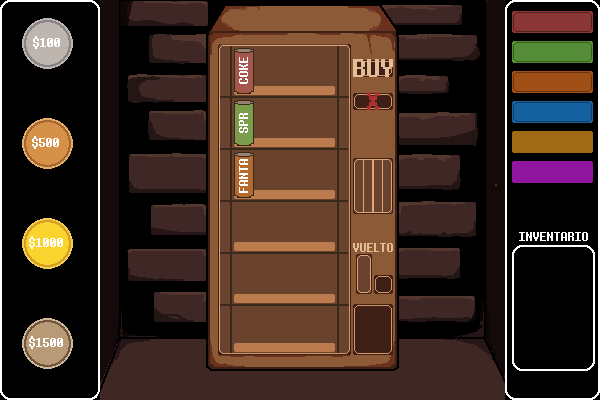
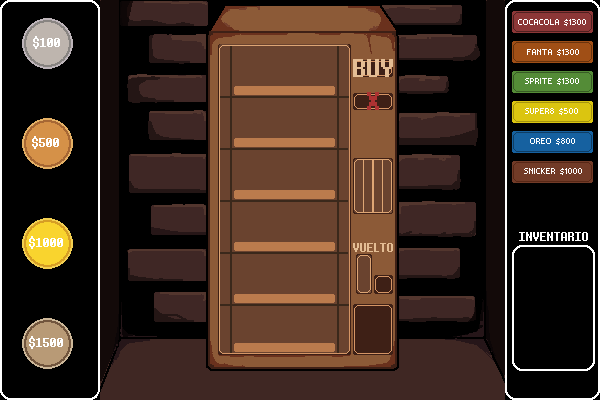
nueva logica vuelto y texturas botones de productos

Changed region(s): [[0.84, 0.09, 0.99, 0.48], [0.39, 0.12, 0.45, 0.51], [0.87, 0.03, 0.96, 0.06]]

diff --git a/src/main/java/expendedor/gui/PanelVuelto.java b/src/main/java/expendedor/gui/PanelVuelto.java
@@ -2,12 +2,9 @@ package expendedor.gui;
 
 import expendedor.logica.Comprador;
 import expendedor.logica.Expendedor;
-import expendedor.logica.monedas.Moneda;
 
 import javax.swing.*;
 import java.awt.*;
-import java.awt.event.MouseAdapter;
-import java.awt.event.MouseEvent;
 
 public class PanelVuelto extends JPanel {
     private Expendedor expendedor;
@@ -17,36 +14,15 @@ public class PanelVuelto extends JPanel {
         this.setOpaque(false);
         this.setLayout(new GridLayout(1,2));
 
-        //Añadimos en un lado el depósito de vuelto
+        // Añadimos la lista de espera visual
         this.add(new PanelDepositoMoneda(expendedor.getDepVuelto()));
-        this.add(new PanelRetiroVuelto(expendedor));
 
-        this.addMouseListener(new MouseAdapter() {
-            @Override
-            public void mousePressed(MouseEvent e) {
-                Moneda monedaVuelto = expendedor.getDepVuelto().get();
-
-                if (monedaVuelto != null) {
-                    System.out.println("Retiraste una moneda de: $" + monedaVuelto.getValor());
-
-                    // Devolvemos el valor correspondiente al monedero del comprador
-                    comprador.recibirMoneda(monedaVuelto);
-
-                    // Redibujamos la ventana para reflejar el cambio en ambos paneles inmediatamente
-                    if (SwingUtilities.getWindowAncestor(PanelVuelto.this) != null) {
-                        SwingUtilities.getWindowAncestor(PanelVuelto.this).repaint();
-                    }
-                } else {
-                    System.out.println("No queda vuelto por retirar.");
-                }
-            }
-        });
+        // Añadimos el cuadrito de retiro (Le pasamos el comprador para que pueda darle el dinero)
+        this.add(new PanelRetiroVuelto(expendedor, comprador));
     }
 
-
-
-  @Override
-  public void paintComponent(Graphics g) {
-    super.paintComponent(g);
-  }
+    @Override
+    public void paintComponent(Graphics g) {
+        super.paintComponent(g);
+    }
 }

diff --git a/src/main/java/expendedor/gui/PanelRetiroVuelto.java b/src/main/java/expendedor/gui/PanelRetiroVuelto.java
@@ -1,10 +1,13 @@
 package expendedor.gui;
 
+import expendedor.logica.Comprador;
 import expendedor.logica.Expendedor;
 import expendedor.logica.monedas.Moneda;
 
 import javax.swing.*;
 import java.awt.*;
+import java.awt.event.MouseAdapter;
+import java.awt.event.MouseEvent;
 
 /**
  * Sub-Panel de PanelVuelto
@@ -17,16 +20,33 @@ public class PanelRetiroVuelto extends JPanel {
      * Se guarda la referencia del expendedor
      * y se definen transparencia y fondo.
      * @param expendedor Referencia del expendedor.
+     * @param comprador Referencia del comprador.
      */
-    public PanelRetiroVuelto(Expendedor expendedor) {
+    public PanelRetiroVuelto(Expendedor expendedor, Comprador comprador) {
         this.expendedor = expendedor;
         this.setOpaque(false);
+
+        // El clic pertenece a este cuadrito específico
+        this.addMouseListener(new MouseAdapter() {
+            @Override
+            public void mousePressed(MouseEvent e) {
+                // Usamos el método oficial de la lógica para respetar la cascada
+                Moneda monedaVuelto = expendedor.retirarMoneda();
+
+                if (monedaVuelto != null) {
+                    System.out.println("Retiraste una moneda de: $" + monedaVuelto.getValor());
+                    comprador.recibirMoneda(monedaVuelto);
+
+                    if (SwingUtilities.getWindowAncestor(PanelRetiroVuelto.this) != null) {
+                        SwingUtilities.getWindowAncestor(PanelRetiroVuelto.this).repaint();
+                    }
+                } else {
+                    System.out.println("No queda vuelto por retirar.");
+                }
+            }
+        });
     }
 
-    /**
-     * Actualiza la moneda
-     * @param g the <code>Graphics</code> object to protect
-     */
     @Override
     public void paintComponent(Graphics g) {
         super.paintComponent(g);
@@ -37,8 +57,9 @@ public class PanelRetiroVuelto extends JPanel {
         g.setColor(Color.BLACK);
         g.drawRect((getWidth()-18)/2, 51, 18, 18);
 
-        //Dibujamos la moneda si es que hay una
+        //Dibujamos la moneda si es que hay una atascada en la salida
         Moneda moneda = this.expendedor.getDepRetiroVuelto();
+
         if (moneda != null) {
             String nombre = moneda.getClass().getSimpleName();
             Image textura = GestorTexturas.getInstancia().getTextura(nombre);
@@ -49,7 +70,7 @@ public class PanelRetiroVuelto extends JPanel {
 
             if (textura != null) {
                 g.drawImage(textura, xCentro, yCentro, size, size, this);
-            } else {//Si es que no carga la textura.
+            } else {
                 g.setColor(Color.YELLOW);
                 g.fillOval(xCentro, yCentro, size, size);
                 g.setColor(Color.BLACK);

diff --git a/src/main/java/expendedor/gui/BotonSelector.java b/src/main/java/expendedor/gui/BotonSelector.java
@@ -6,20 +6,26 @@ import java.awt.*;
 
 /**
  * Botón Selector para los productos del expendedor.
+ * Se comporta como una "hotspot" transparente sobre el arte de fondo.
  */
 public class BotonSelector extends JButton {
     private PanelPago panelPago;
     private TipoProducto tipo;
 
     /**
-     * Se crea el botón.
+     * Se crea el botón vacío y transparente.
      * @param panelPago Referencia para poder manejar el evento de presionar el botón.
-     * @param tipo Para el nombre del botón.
+     * @param tipo Tipo de producto asociado a este botón.
      */
     public BotonSelector(PanelPago panelPago, TipoProducto tipo) {
-        super(tipo.toString());
+        super();
+
         this.panelPago = panelPago;
         this.tipo = tipo;
+
+        this.setContentAreaFilled(false);
+        this.setBorderPainted(false);
+        this.setFocusPainted(false);
 
         this.addActionListener(e -> {
             panelPago.seleccionarProducto(tipo);
@@ -29,13 +35,21 @@ public class BotonSelector extends JButton {
         });
     }
 
+    /**
+     * Dibuja EXCLUSIVAMENTE el marco de selección brillante si está activo.
+     * @param g Entorno gráfico.
+     */
     @Override
     protected void paintComponent(Graphics g) {
         super.paintComponent(g);
+
+        //Si este botón es el que está seleccionado en PanelPago, lo resaltamos
         if (this.panelPago.getTipoProducto() == this.tipo) {
             Graphics2D g2d = (Graphics2D) g;
-            g2d.setColor(Color.WHITE);
-            g2d.setStroke(new BasicStroke(2));
+            g2d.setColor(Color.WHITE); // Marco brillante estilo neón
+            g2d.setStroke(new BasicStroke(2)); // Grosor de 2 píxeles
+
+            // Dibujamos el rectángulo justo en el borde del componente
             g2d.drawRect(1, 1, this.getWidth() - 2, this.getHeight() - 2);
         }
     }

diff --git a/src/main/java/expendedor/gui/PanelProductoComprado.java b/src/main/java/expendedor/gui/PanelProductoComprado.java
@@ -27,8 +27,7 @@ public class PanelProductoComprado extends JPanel {
         this.expendedor = expendedor;
         this.comprador = comprador;
 
-        this.setBackground(Color.GRAY);
-        this.setBorder(BorderFactory.createLineBorder(Color.BLACK));
+        this.setOpaque(false);
 
         this.addMouseListener(new MouseAdapter() {
             @Override

diff --git a/src/main/java/expendedor/gui/PanelExpendedor.java b/src/main/java/expendedor/gui/PanelExpendedor.java
@@ -34,7 +34,6 @@ public class PanelExpendedor extends JPanel {
         //this.setBackground(new Color(0, 75, 115));//Fondo Expendedor
 
         this.setOpaque(false); //Lo hace invisible
-        this.setBorder(BorderFactory.createLineBorder(Color.RED, 2));
 
         //Se inicializan los sub-paneles
         this.panelVitrina =  new PanelVitrina(expendedor);